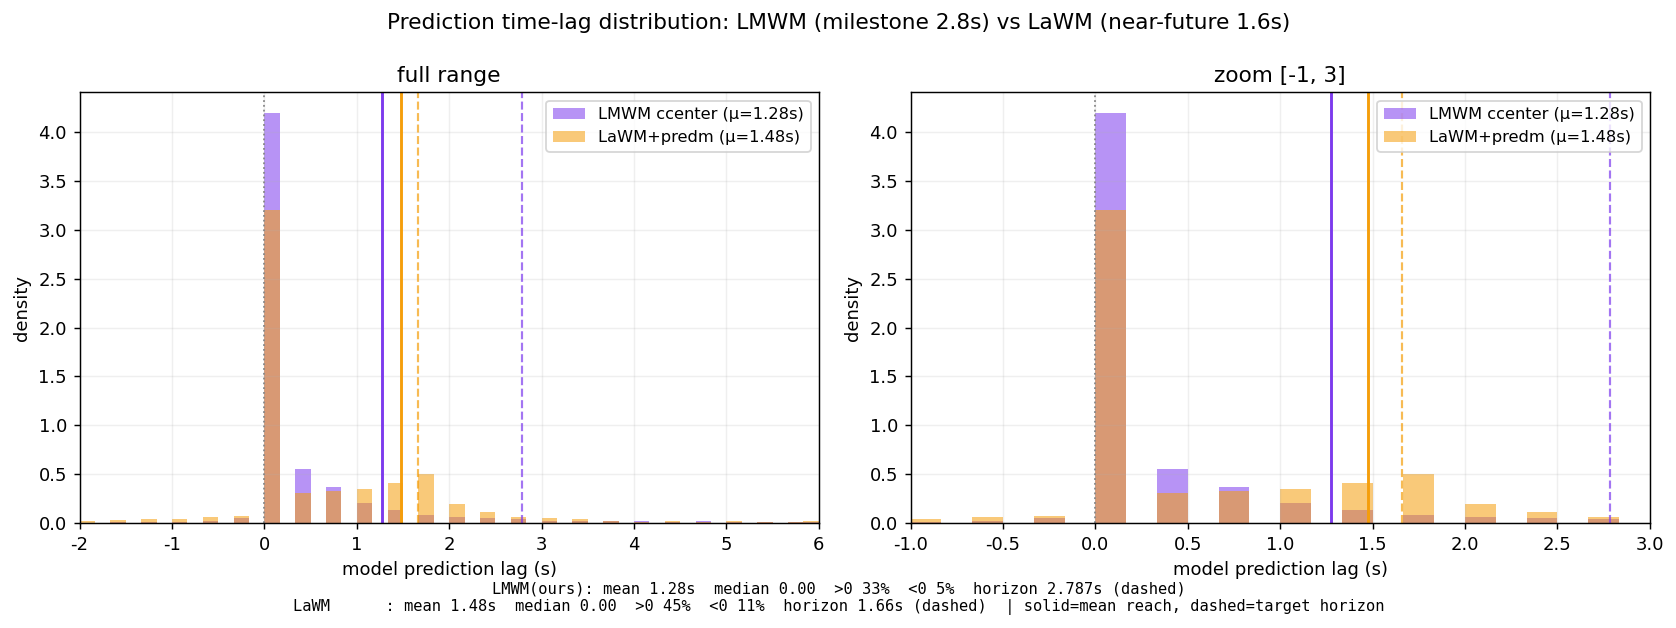
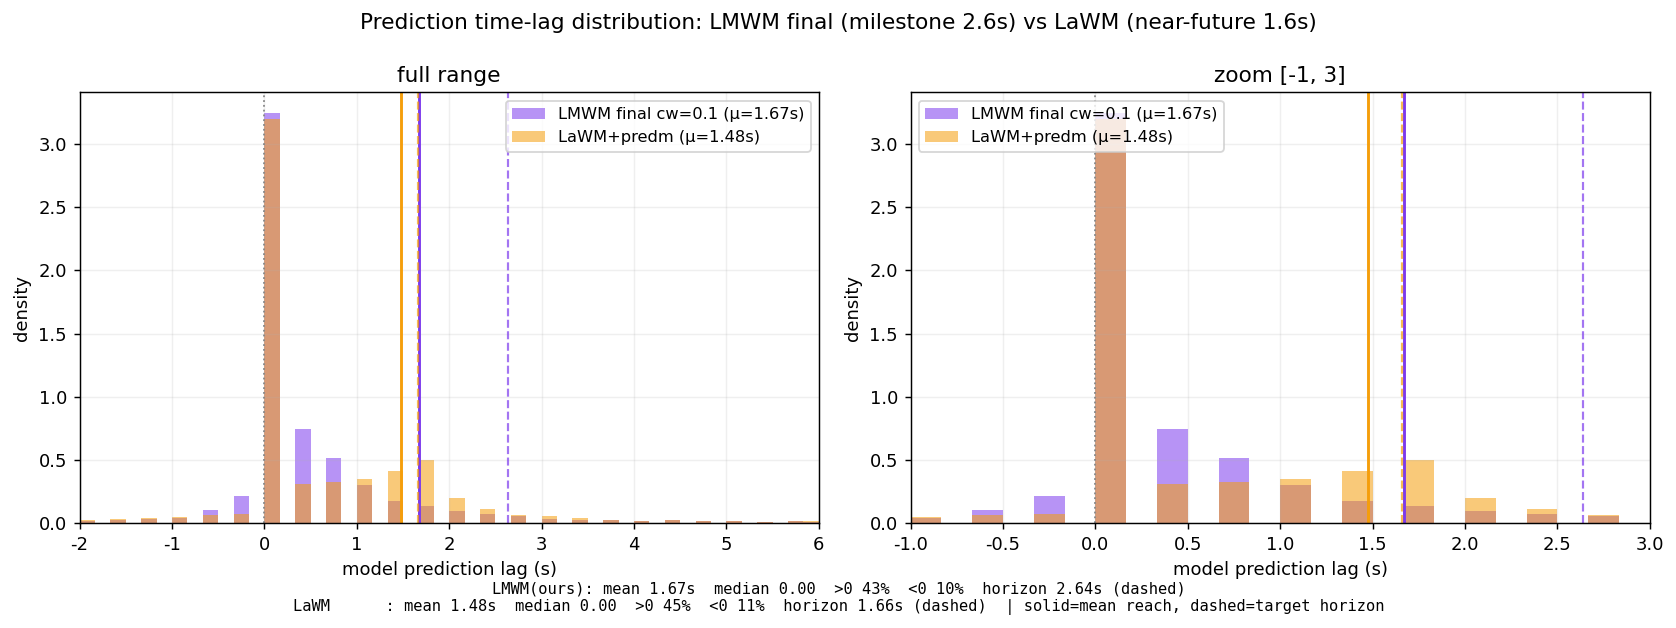
lmwm: predictor-input ablation (gist vs grid) + visbase cross-domain render + lag plot fix
- ablation: MilestonePredictorGrid variant + train_ablation --pred_input {gist,grid}
  result: grid gives NO deploy gain (0.7257 vs 0.7260) at +71% params -> keep gist
  (identity/value-forward within run-to-run noise; documented in ABLATION_CONVERGENCE)
- fix: plot_lag_dist read stale lag_raw_ccenter (center_w=0.5, reach 1.28s);
  repointed to lag_raw_cw01 (final, 1.673s) -> regenerated lag_distribution.png
- visbase: make_visbase_dinov3h_index.py builds DINOv3-H feature index for one
  vis_base episode; rendered cross-domain milestone video with twomodel_final.pt
- report §02.3: add vis_base cross-domain video (removes earlier follow-up note)

diff --git a/web/showcase/reports/lmwm_final/index.html b/web/showcase/reports/lmwm_final/index.html
@@ -293,7 +293,12 @@
           <source src="assets/final_heldout_cw01.mp4" type="video/mp4">
           浏览器无法内嵌播放,<a href="assets/final_heldout_cw01.mp4">点此下载视频</a>。
         </video>
-        <figcaption><b>ep3000(留出集,未训练)</b> · 未见 episode 上预测与真实进度前向 milestone 高度吻合 —— 泛化到留出数据。<span class="ref">SigLIP 解码略糊是对比训练特征的重建天花板(val_L1≈0.05),非预测问题;VLA 消费的是特征不是像素。跨数据集 vis_base 泛化见 §03.2 定量(cos 0.56),新架构 visbase 渲染为后续补。</span></figcaption></figure>
+        <figcaption><b>ep3000(留出集,未训练)</b> · 未见 episode 上预测与真实进度前向 milestone 高度吻合 —— 泛化到留出数据。<span class="ref">SigLIP 解码略糊是对比训练特征的重建天花板(val_L1≈0.05),非预测问题;VLA 消费的是特征不是像素。</span></figcaption></figure>
+      <figure><video controls playsinline preload="metadata" muted loop>
+          <source src="assets/final_visbase_cw01.mp4" type="video/mp4">
+          浏览器无法内嵌播放,<a href="assets/final_visbase_cw01.mp4">点此下载视频</a>。
+        </video>
+        <figcaption><b>vis_base 跨数据集(未见本体)</b> · 用最终 center_w=0.1 模型 + 为该 episode 现算的 DINOv3-H 特征做<b>跨域</b> milestone 预测(黑色衣物,外观与 kai0 差异大)。预测 m+1(第2栏)= 衣物更展开/被操作的形态,构型在特征空间迁移(§03.2 定量 cos 0.56)。<span class="ref">解码更糊 = kai0 训练的解码器跨域外观漂移(像素级),非预测问题。</span></figcaption></figure>
     </div>
   </section>
 

diff --git a/lmwm/scripts/make_visbase_dinov3h_index.py b/lmwm/scripts/make_visbase_dinov3h_index.py
@@ -1,0 +1,58 @@
+#!/usr/bin/env python
+"""Build a DINOv3-H feature index (index.npz + shard_0.npz, load_index-compatible) for ONE vis_base
+episode, so render_twomodel_video.py can run cross-domain milestone prediction on it (assign to the
+existing kai0 37-prototype milestones). Mirrors reencode_pooled_unified's encoder path.
+"""
+from __future__ import annotations
+
+import argparse
+import glob
+import sys
+from pathlib import Path
+
+import numpy as np
+
+REPO = Path(__file__).resolve().parents[2]
+sys.path.insert(0, str(Path(__file__).resolve().parent))
+sys.path.insert(0, str(REPO / "crave/src"))
+import cv2  # noqa: E402
+from lever_patch_token import read_enc  # noqa: E402
+from crave.encoders import load_encoder  # noqa: E402
+
+
+def ep_frame_count(root: Path, camera: str, ep: int) -> int:
+    pats = [str(root / f"videos/chunk-*/{camera}/episode_{ep:06d}.mp4"),
+            str(root / f"*/videos/chunk-*/{camera}/episode_{ep:06d}.mp4")]
+    vids = [v for p in pats for v in glob.glob(p)]
+    if not vids:
+        raise SystemExit(f"no video for ep{ep} camera={camera} under {root}")
+    cap = cv2.VideoCapture(vids[0]); n = int(cap.get(cv2.CAP_PROP_FRAME_COUNT)); cap.release()
+    print(f"ep{ep}: {vids[0]} -> {n} frames", flush=True)
+    return n
+
+
+def main():
+    ap = argparse.ArgumentParser()
+    ap.add_argument("--dataset_root", required=True, type=Path)
+    ap.add_argument("--camera", default="observation.images.top_head")
+    ap.add_argument("--episode", type=int, default=0)
+    ap.add_argument("--out_dir", required=True, type=Path)
+    ap.add_argument("--fps", type=float, default=30.0)
+    ap.add_argument("--device", default="cuda:0")
+    args = ap.parse_args()
+
+    T = ep_frame_count(args.dataset_root, args.camera, args.episode)
+    E = np.full(T, args.episode, np.int64); FR = np.arange(T, dtype=np.int64)
+
+    enc = load_encoder("dinov3-h", device=args.device)
+    imgs = read_enc(args.dataset_root, args.camera, E, FR, 256)                 # cv2 read + resize 256
+    feat = enc.encode_pooled(imgs).astype(np.float16)                          # (T, 1280) DINOv3-H pooled
+
+    args.out_dir.mkdir(parents=True, exist_ok=True)
+    np.savez(args.out_dir / "index.npz", E=E, FR=FR, T=(FR / args.fps).astype(np.float32), n=np.int64(T))
+    np.savez(args.out_dir / "shard_0.npz", gidx=np.arange(T, dtype=np.int64), feat=feat, valid=np.ones(T, bool))
+    print(f"wrote {args.out_dir}: T={T} feat={feat.shape} dim={feat.shape[1]}", flush=True)
+
+
+if __name__ == "__main__":
+    main()

diff --git a/lmwm/scripts/train_twomodel_v2.py b/lmwm/scripts/train_twomodel_v2.py
@@ -94,6 +94,41 @@ class MilestonePredictor(nn.Module):  # PREDICTOR (deploy head): current gist ->
         return torch.stack(out)
 
 
+class MilestonePredictorGrid(nn.Module):  # PREDICTOR variant: input = current GRID G_t (spatial) not pooled gist
+    """预测器(部署头)· grid 输入变体: 小 conv 编码器把 G_t(B,din,P,P) 压成特征 -> 同一 MDN 头.
+    与 MilestonePredictor 输出契约一致(pi,mu,ls / nll / deploy_mean / sample), 只是 forward 吃 grid."""
+    def __init__(self, in_dim, C, K, hid=1024, cw=256):
+        super().__init__()
+        self.K, self.C = K, C
+        self.enc = nn.Sequential(
+            nn.Conv2d(in_dim, cw, 3, 2, 1), nn.GroupNorm(8, cw), nn.GELU(),   # 16->8
+            nn.Conv2d(cw, cw, 3, 2, 1), nn.GroupNorm(8, cw), nn.GELU(),       # 8->4
+        )
+        self.trunk = nn.Sequential(nn.Linear(cw, hid), nn.GELU(), nn.Linear(hid, hid), nn.GELU())
+        self.pi = nn.Linear(hid, K); self.mu = nn.Linear(hid, K * C); self.ls = nn.Linear(hid, K * C)
+
+    def forward(self, G):
+        h = self.trunk(self.enc(G).mean((2, 3))); B = G.shape[0]
+        return self.pi(h), self.mu(h).view(B, self.K, self.C), self.ls(h).view(B, self.K, self.C).clamp(-6, 4)
+
+    def nll(self, G, z):
+        logit, mu, ls = self(G); logpi = F.log_softmax(logit, -1); var = (2 * ls).exp()
+        comp = -0.5 * (((z[:, None] - mu) ** 2) / var + 2 * ls + np.log(2 * np.pi)).sum(-1)
+        return -(torch.logsumexp(logpi + comp, -1)).mean()
+
+    @torch.no_grad()
+    def deploy_mean(self, G):
+        logit, mu, _ = self(G); return mu[torch.arange(len(G)), logit.argmax(-1)]
+
+    @torch.no_grad()
+    def sample(self, G, n):
+        logit, mu, ls = self(G); pi = F.softmax(logit, -1); out = []
+        for _ in range(n):
+            k = torch.multinomial(pi, 1).squeeze(1)
+            out.append(mu[torch.arange(len(G)), k] + torch.randn_like(mu[:, 0]) * ls[torch.arange(len(G)), k].exp())
+        return torch.stack(out)
+
+
 def cosr(a, b):
     return (a * b).sum(1) / (a.norm(dim=1) * b.norm(dim=1) + 1e-8)
 

diff --git a/lmwm/scripts/train_ablation.py b/lmwm/scripts/train_ablation.py
@@ -32,7 +32,7 @@ sys.path.insert(0, str(REPO / "crave/src"))
 from train_lawm_patch import load_index, read_imgs, InverseEnc, ForwardDec  # noqa: E402
 from crave.utils.dp import viterbi_forward  # noqa: E402
 from _siglip_bigvision import SiglipBigVision  # noqa: E402
-from train_twomodel_v2 import MilestoneGenerator, MilestonePredictor, PI05_NPZ, PI05_NPZ_GF3, cosr  # noqa: E402
+from train_twomodel_v2 import MilestoneGenerator, MilestonePredictor, MilestonePredictorGrid, PI05_NPZ, PI05_NPZ_GF3, cosr  # noqa: E402
 
 
 def build_pairs_abl(E, FR, Fn, proto, protoL, pord, mode, val_eps, seed):
@@ -70,6 +70,7 @@ def main():
     ap.add_argument("--target_mode", default="seglast", choices=["seglast", "allframes"])
     ap.add_argument("--teacher", default="medoid", choices=["medoid", "center", "none"])
     ap.add_argument("--fwd_arch", default="adaln", choices=["adaln", "concat"])
+    ap.add_argument("--pred_input", default="gist", choices=["gist", "grid"])  # predictor sees pooled gist vs full grid
     ap.add_argument("--lift_w", type=float, default=1.0)
     ap.add_argument("--code_dim", type=int, default=128)
     ap.add_argument("--K", type=int, default=4)
@@ -113,7 +114,7 @@ def main():
 
     inv = InverseEnc(din, cd).to(dev) if args.teacher != "none" else None
     fwd = (MilestoneGenerator(din, cd) if args.fwd_arch == "adaln" else ForwardDec(din, cd)).to(dev)
-    predm = MilestonePredictor(din, cd, args.K).to(dev)
+    predm = (MilestonePredictorGrid if args.pred_input == "grid" else MilestonePredictor)(din, cd, args.K).to(dev)
     cen_head = nn.Linear(cd, Mn).to(dev) if args.teacher == "center" else None
     p1 = list(fwd.parameters()) + (list(inv.parameters()) if inv else []) + (list(cen_head.parameters()) if cen_head else [])
     o1 = torch.optim.AdamW(p1, lr=2e-4, weight_decay=1e-5)
@@ -121,6 +122,7 @@ def main():
     for step in range(args.steps):
         sel = torch.randint(0, len(tra), (64,))
         Gc = GZ[tra[sel]].float().to(dev); Gf = GZ[trb[sel]].float().to(dev); gc = gist[tra[sel]].to(dev)
+        pc = Gc if args.pred_input == "grid" else gc                       # predictor input: grid vs gist
         nm = torch.from_numpy(trn[sel.numpy()]).long().to(dev)
         if inv is not None:                                                # teacher path
             z = inv(Gc, Gf); gh = fwd(Gc, z)
@@ -129,9 +131,9 @@ def main():
             if cen_head is not None:                                       # cluster-center identity anchor
                 l1 = l1 + args.center_w * F.cross_entropy(cen_head(z), nm)
             o1.zero_grad(); l1.backward(); o1.step()
-            l2 = predm.nll(gc, z.detach()); o2.zero_grad(); l2.backward(); o2.step()
+            l2 = predm.nll(pc, z.detach()); o2.zero_grad(); l2.backward(); o2.step()
         else:                                                              # no teacher: predm code reconstructs
-            zp = predm.deploy_mean(gc) if False else predm(gc)[1][:, 0]    # use 1st component mean as code
+            zp = predm.deploy_mean(pc) if False else predm(pc)[1][:, 0]    # use 1st component mean as code
             gh = fwd(Gc, zp)
             lift = torch.relu(cosr(gh.flatten(1), Gc.flatten(1)) - cosr(gh.flatten(1), Gf.flatten(1))).mean()
             loss = F.smooth_l1_loss(gh, Gf) + args.lift_w * lift
@@ -151,19 +153,21 @@ def main():
     with torch.no_grad():
         for s in range(0, len(vaa), 128):
             Gc = GZ[vaa[s:s + 128]].float().to(dev); Gf = GZ[vab[s:s + 128]].float().to(dev); gc = gist[vaa[s:s + 128]].to(dev)
-            gtr = f(Gf); zdep = predm.deploy_mean(gc)
+            pc = Gc if args.pred_input == "grid" else gc
+            gtr = f(Gf); zdep = predm.deploy_mean(pc)
             if inv is not None:
                 co.append(cn(f(fwd(Gc, inv(Gc, Gf))), gtr))
             cd_.append(cn(f(fwd(Gc, zdep)), gtr)); cp.append(cn(f(Gc), gtr))
             best = None
-            for zi in predm.sample(gc, args.bestof):
+            for zi in predm.sample(pc, args.bestof):
                 ck = cn(f(fwd(Gc, zi)), gtr); best = ck if best is None else np.maximum(best, ck)
             cb.append(best)
         # identity top-N: rank milestones by cos(deploy predicted pooled gist, SigLIP proto)
         idpred = []
         for s in range(0, len(vaa), 128):
             Gc = GZ[vaa[s:s + 128]].float().to(dev); gc = gist[vaa[s:s + 128]].to(dev)
-            gh = fwd(Gc, predm.deploy_mean(gc)).mean((2, 3)).cpu().numpy()  # predicted pooled gist
+            pc = Gc if args.pred_input == "grid" else gc
+            gh = fwd(Gc, predm.deploy_mean(pc)).mean((2, 3)).cpu().numpy()  # predicted pooled gist
             idpred.append(gh)
         idpred = np.concatenate(idpred); idpred /= (np.linalg.norm(idpred, axis=1, keepdims=True) + 1e-8)
         idn = topn_hit(idpred @ spL.T, vbn)
@@ -173,6 +177,7 @@ def main():
         value_true = float((pord[vbn] > pord[cur_ms]).mean())              # target's own value-forward (ref)
 
     res = {"tag": args.tag, "target_mode": args.target_mode, "teacher": args.teacher, "fwd_arch": args.fwd_arch,
+           "pred_input": args.pred_input, "predm_params": sum(p.numel() for p in predm.parameters()),
            "lift_w": args.lift_w, "center_w": args.center_w, "code_dim": cd, "K": args.K, "n_train": len(tr),
            "oracle_grid_cos": round(float(np.concatenate(co).mean()), 4) if co else None,
            "deploy_grid_cos": round(float(np.concatenate(cd_).mean()), 4),
@@ -184,7 +189,7 @@ def main():
     ckp = REPO / f"lmwm/checkpoints/ablation/{args.tag}.pt"; ckp.parent.mkdir(parents=True, exist_ok=True)
     save = {"fwd": fwd.state_dict(), "predm": predm.state_dict(), "K": args.K, "din": din, "code_dim": cd,
             "gmu": float(gmu), "gsd": float(gsd), "arch": "v2" if args.fwd_arch == "adaln" else "v2concat",
-            "fwd_arch": args.fwd_arch}
+            "fwd_arch": args.fwd_arch, "pred_input": args.pred_input}
     if inv:
         save["inv"] = inv.state_dict()
     torch.save(save, ckp)

diff --git a/lmwm/scripts/plot_lag_dist.py b/lmwm/scripts/plot_lag_dist.py
@@ -1,6 +1,6 @@
 #!/usr/bin/env python
-"""Distribution plot: LMWM (ours, ccenter) vs LaWM prediction time-lag. Overlaid histograms of the
-per-frame model_lag (s), with means + design horizons marked, to visualize the difference intuitively.
+"""Distribution plot: LMWM (ours, FINAL center_w=0.1) vs LaWM prediction time-lag. Overlaid histograms
+of the per-frame model_lag (s), with means + design horizons marked, to visualize the difference.
 """
 from __future__ import annotations
 
@@ -13,15 +13,15 @@ matplotlib.use("Agg")
 import matplotlib.pyplot as plt  # noqa: E402
 
 REPO = Path(__file__).resolve().parents[2]
-ours = np.load(REPO / "lmwm/outputs/lag_raw_ccenter.npy")
+ours = np.load(REPO / "lmwm/outputs/lag_raw_cw01.npy")                        # FINAL center_w=0.1 (twomodel_final.pt)
 lawm = np.load(REPO / "lmwm/outputs/lag_raw_lawm.npy")
 
-O_HZ, L_HZ = 2.787, 1.66                                                     # dataset horizons
+O_HZ, L_HZ = 2.64, 1.66                                                      # dataset horizons
 fig, ax = plt.subplots(1, 2, figsize=(13, 4.6))
 
 bins = np.linspace(-2, 6, 49)
 for a, title, xr in [(ax[0], "full range", (-2, 6)), (ax[1], "zoom [-1, 3]", (-1, 3))]:
-    a.hist(ours, bins=bins, density=True, alpha=0.55, color="#7c3aed", label=f"LMWM ccenter (μ={ours.mean():.2f}s)")
+    a.hist(ours, bins=bins, density=True, alpha=0.55, color="#7c3aed", label=f"LMWM final cw=0.1 (μ={ours.mean():.2f}s)")
     a.hist(lawm, bins=bins, density=True, alpha=0.55, color="#f59e0b", label=f"LaWM+predm (μ={lawm.mean():.2f}s)")
     a.axvline(ours.mean(), color="#7c3aed", ls="-", lw=1.6); a.axvline(lawm.mean(), color="#f59e0b", ls="-", lw=1.6)
     a.axvline(O_HZ, color="#7c3aed", ls="--", lw=1.2, alpha=.7); a.axvline(L_HZ, color="#f59e0b", ls="--", lw=1.2, alpha=.7)
@@ -34,7 +34,7 @@ txt = (f"LMWM(ours): mean {ours.mean():.2f}s  median {np.median(ours):.2f}  "
        f"LaWM      : mean {lawm.mean():.2f}s  median {np.median(lawm):.2f}  "
        f">0 {(lawm>0).mean()*100:.0f}%  <0 {(lawm<0).mean()*100:.0f}%  horizon {L_HZ}s (dashed)  "
        f"| solid=mean reach, dashed=target horizon")
-fig.suptitle("Prediction time-lag distribution: LMWM (milestone 2.8s) vs LaWM (near-future 1.6s)", fontsize=12)
+fig.suptitle("Prediction time-lag distribution: LMWM final (milestone 2.6s) vs LaWM (near-future 1.6s)", fontsize=12)
 fig.text(0.5, -0.02, txt, ha="center", fontsize=8.5, family="monospace")
 fig.tight_layout()
 out = REPO / "lmwm/outputs/lag_distribution.png"

diff --git a/lmwm/docs/ABLATION_CONVERGENCE_2026-07.md b/lmwm/docs/ABLATION_CONVERGENCE_2026-07.md
@@ -38,3 +38,13 @@ center_w ∈ {0,0.1,0.25,0.5}(teacher=center)扫描:
 **甜点=center_w 0.1**:身份/deploy/reach/平滑全见顶。reach 1.67s **> LaWM 1.48s**(在更难的 2.8s milestone 目标上)→ "LMWM reach 不如 LaWM"的真因是 center_w 定太高(0.5 把 reach 从 1.67 砍到 1.25)。**定案 ccenter(0.5)→ center_w=0.1(twomodel_final.pt)。**
 LaWM 基线 lag:reach 1.48s / ratio 0.947(固定 1.6s horizon,近未来易打满);绝对 reach 我们(0.1)反超。分布图 `lag_distribution.png`、曲线 `center_w_curve.png`。
 ⚠️ value_forward 指标此前用 argmax 当前 milestone 有 bug(已修为 Viterbi);目标本身 value-forward 由 Viterbi 单调构造保证。
+
+## 预测器输入消融(2026-07)· gist vs grid
+控制变量(同 center_w=0.1/teacher=center/adaln/code128/K4,仅 `--pred_input` 不同)。grid 变体 = `MilestonePredictorGrid`(2 层 conv 下采样 G_t → 池化 → 同 MDN 头)。
+| pred_input | deploy | oracle* | bestof8 | id_t3 | id_t5 | value_fwd | predm 参数 |
+|---|---|---|---|---|---|---|---|
+| **gist**(定案) | **0.7260** | 0.7504 | 0.7321 | **0.5125** | 0.6125 | 0.465 | **3.28M** |
+| grid | 0.7257 | 0.7599 | 0.7369 | 0.5044 | 0.6231 | 0.460 | 5.61M(+71%) |
+
+**结论:维持 gist**。deploy 完全打平(Δ0.0003),身份/value-forward 全在 run-to-run 噪声(±0.01)内;grid 多 71% 参数换 0 deploy 收益。说明"下一个是哪个价值 milestone"是**场景级全局身份判断**,pooled gist 已充分,空间细节无增量。
+*oracle 只经 teacher(inv)+生成器、不过预测器 → 两 run 的 0.75/0.76 差是 batch 采样未固定种子的噪声,非 grid 效应;严格坐实需多 seed,但 deploy 打平的信号已足够。脚本:`train_ablation.py --pred_input {gist,grid}`、`MilestonePredictorGrid`(train_twomodel_v2.py)。